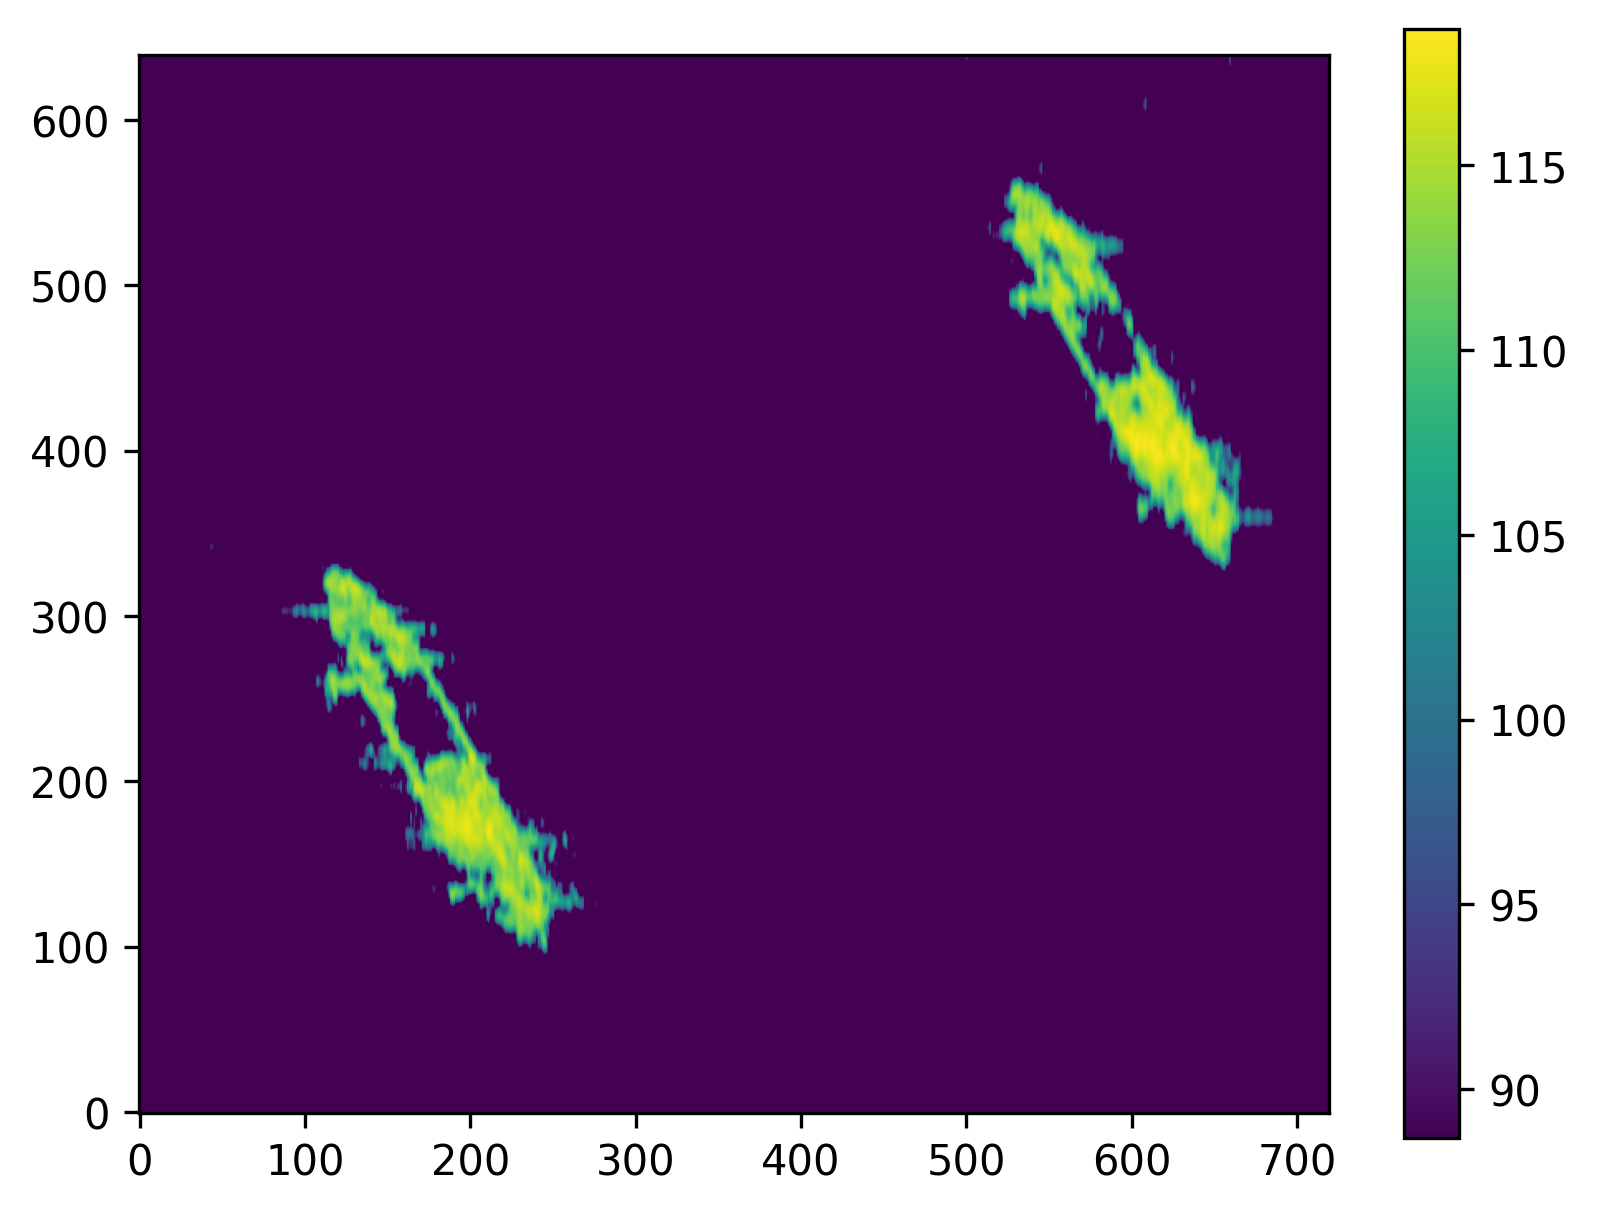
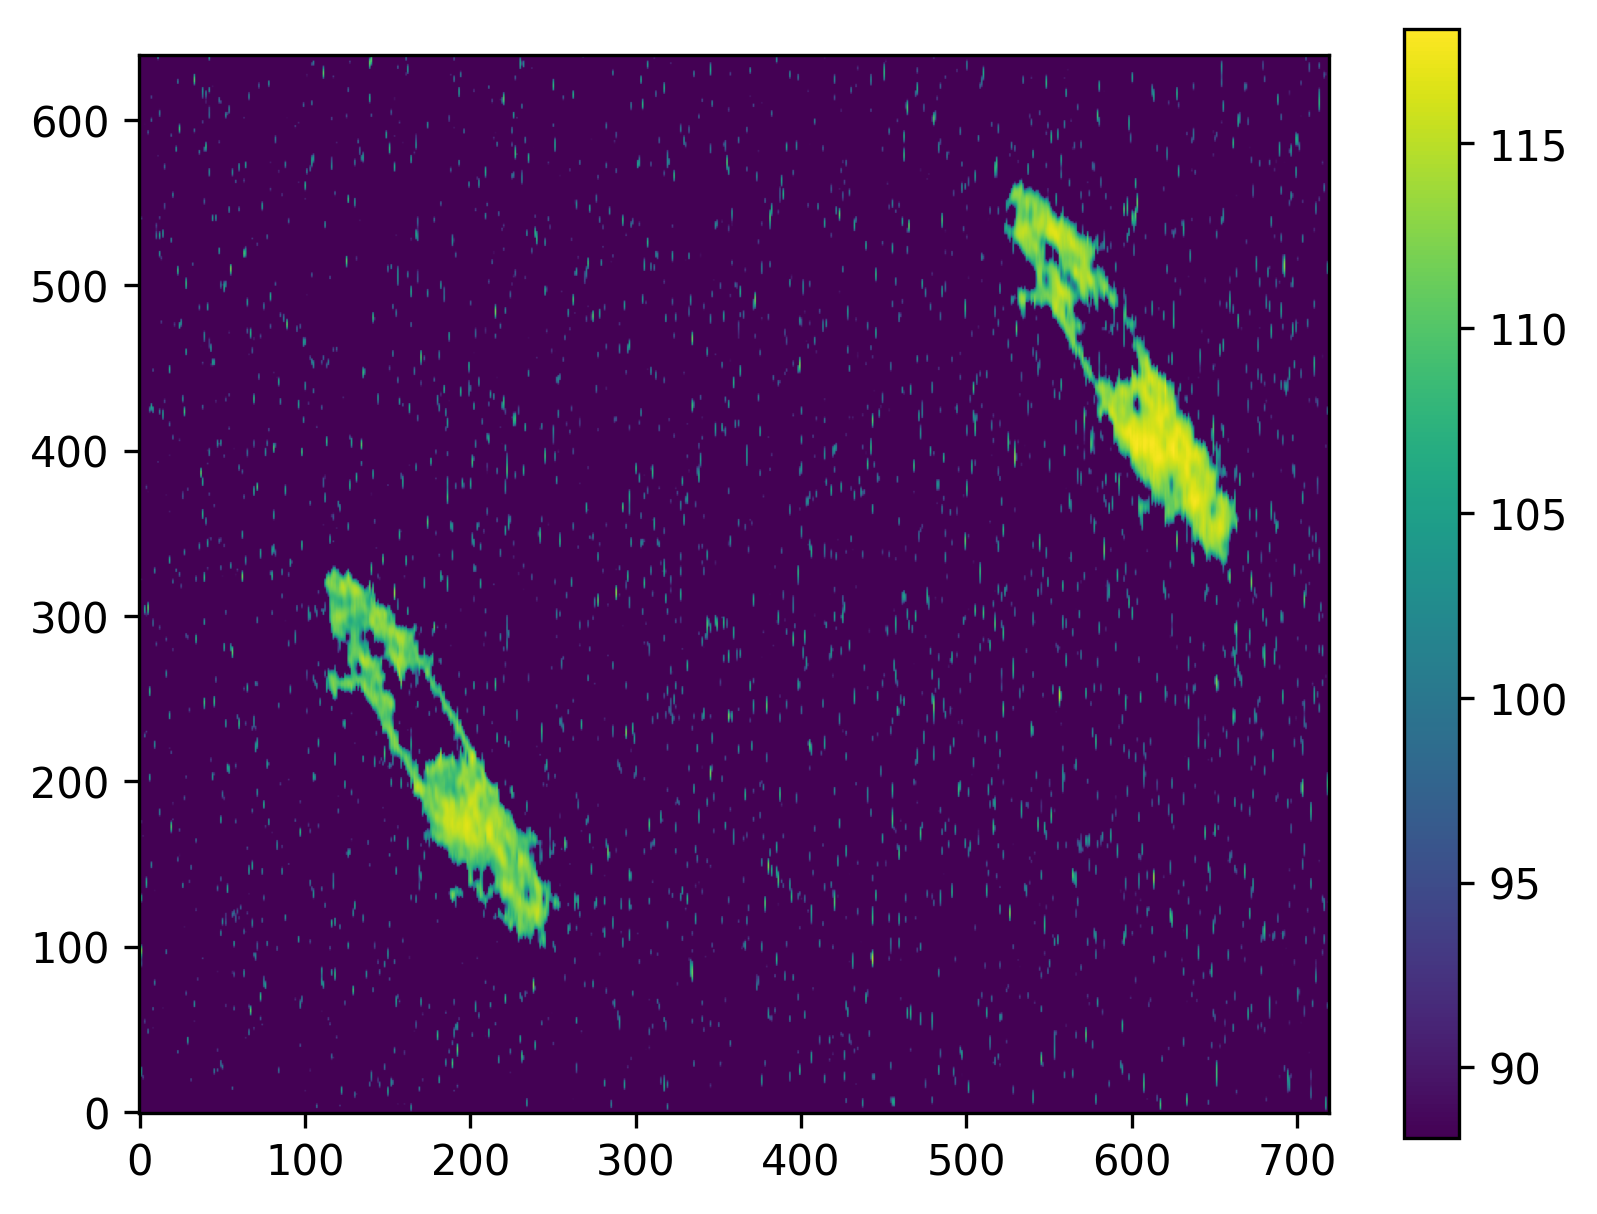
Add result that both image and SSIM are significantly improved

diff --git a/TestMultiPointTarget/TestImageGen.py b/TestMultiPointTarget/TestImageGen.py
@@ -15,6 +15,15 @@ def plot_single_point_target():
     plt.colorbar()
     plt.savefig("single_point_target.png", dpi=300, bbox_inches="tight")
 
+def save_result(sliced_data, file_path):
+    # max_val = np.percentile(data, 99.8)
+    max_val = np.max(sliced_data)
+    clipped_data = np.clip(sliced_data, max_val-30, max_val)
+    plt.imshow(clipped_data, origin='lower', cmap='viridis', aspect=1.0)
+    plt.colorbar()
+    plt.savefig(file_path, dpi=300, bbox_inches="tight")
+    plt.clf()
+
 if __name__ == "__main__": 
     # scene = Scene.Coast
     # scene = Scene.Island
@@ -36,24 +45,26 @@ if __name__ == "__main__":
         data = np.load(f"./focused_image/{image_name}_mag_db.npy")[int(n_row*3/2):int(n_row*5/2), int(n_col*3/2):int(n_col*5/2)]
     print(data.shape)
     # plt.imshow(data, origin='lower', cmap='viridis', aspect=2.0)
-    # max_val = np.percentile(data, 99.8)
-    max_val = np.max(data)
-    clipped_data = np.clip(data, max_val-30, max_val)
-    plt.imshow(clipped_data, origin='lower', cmap='viridis', aspect=1.0)
-    plt.colorbar()
-    plt.savefig(f"{image_name}_csa.png", dpi=300, bbox_inches="tight")
-    plt.clf()
+    save_result(
+        sliced_data=data,
+        file_path="../diagram/perf_metric/tsoying_naval_base/result_csa.png",
+    )
 
-    for i in range(1):
-        data = np.load("./focused_image/tsoying_naval_base_iter_{}_mag_db.npy".format(i))[int(n_row*3/2):int(n_row*5/2), int(n_col*3/2):int(n_col*5/2)]
-        aspect = 1.0
-        # plt.imshow(data, origin='lower', cmap='viridis', aspect=2.0)
-        max_val = np.max(data)
-        print(max_val)
-        clipped_data = np.clip(data, max_val-30, max_val)
-        plt.imshow(clipped_data, origin='lower', cmap='viridis', aspect=aspect)
-        plt.colorbar()
-        plt.savefig(f"tsoying_naval_base_iter_{i}.png".format(i), dpi=300, bbox_inches="tight")
-        plt.clf()
+    # for i in range(1):
+    #     data = np.load("./focused_image/tsoying_naval_base_iter_{}_mag_db.npy".format(i))[int(n_row*3/2):int(n_row*5/2), int(n_col*3/2):int(n_col*5/2)]
+    #     aspect = 1.0
+    #     # plt.imshow(data, origin='lower', cmap='viridis', aspect=2.0)
+    #     max_val = np.max(data)
+    #     print(max_val)
+    #     clipped_data = np.clip(data, max_val-30, max_val)
+    #     plt.imshow(clipped_data, origin='lower', cmap='viridis', aspect=aspect)
+    #     plt.colorbar()
+    #     plt.savefig(f"tsoying_naval_base_iter_{i}.png".format(i), dpi=300, bbox_inches="tight")
+    #     plt.clf()
+    data = np.load("./focused_image/tsoying_naval_base_iter_0_mag_db.npy")[int(n_row*3/2):int(n_row*5/2), int(n_col*3/2):int(n_col*5/2)]
+    save_result(
+        sliced_data=data,
+        file_path="../diagram/perf_metric/tsoying_naval_base/result_threshold.png",
+    )
     
     print("DONE")

diff --git a/document/simulation_report/performance_metrics_table.tex b/document/simulation_report/performance_metrics_table.tex
@@ -5,12 +5,12 @@
         \toprule
         Metric & result (threshold = 0) & result (threshold = 1e4) \\
         \midrule
-        SSIM & 0.09735 & 0.09737 \\
-        Luminance $L$ & 0.29189 & 0.29023 \\
-        Contrast $C$ & 0.13559 & 0.13411 \\
-        Structure $S$ & 0.94457 & 0.95153 \\
-        PSNR (dB) & 14.44 & 14.43 \\
-        MSE $[0,1]$ & 0.03600 & 0.03605 \\
+        SSIM & 0.02064 & 0.66418 \\
+        Luminance $L$ & 0.04553 & 0.79501 \\
+        Contrast $C$ & 0.14021 & 0.72412 \\
+        Structure $S$ & 0.95948 & 0.96593 \\
+        PSNR (dB) & 5.17 & 20.61 \\
+        MSE $[0,1]$ & 0.30379 & 0.00870 \\
         \bottomrule
     \end{tabular}
 \end{table}

diff --git a/TestMultiPointTarget/TestMultiPointTarget.py b/TestMultiPointTarget/TestMultiPointTarget.py
@@ -216,14 +216,14 @@ if __name__ == "__main__":
     # gen_input_par(scene=Scene.Island)
     gen_input_par(scene=Scene.TsoYingNavalBase)
     # start_time = time.perf_counter()
-    # run_cpp(args=["gen", "multi_point_target"])
+    # run_gen_echo_signal("tsoying_naval_base")
     # end_time = time.perf_counter()
     # execution_time = end_time - start_time
     # print(f"Execution time: {execution_time/60:.6f} minutes")
     
-    run_cpp(args=["focus", "tsoying_naval_base"])
-    run_cpp(args=["calc_mag", "./focused_image/tsoying_naval_base"])
-    run_cpp(args=["calc_entropy", "./focused_image/tsoying_naval_base"])
+    # run_cpp(args=["focus", "tsoying_naval_base"])
+    # run_cpp(args=["calc_mag", "./focused_image/tsoying_naval_base"])
+    # run_cpp(args=["calc_entropy", "./focused_image/tsoying_naval_base"])
     
     # save_3d_plot_of_focused_image("focused_image", "multi_point_target_image_mag_db")
     # save_3d_plot("focused_image", "multi_point_target_image_mag_db")
@@ -250,5 +250,4 @@ if __name__ == "__main__":
     # run_cpp(args=["calc_entropy", "./focused_image/multi_point_target_image"])
     # run_cpp(args=["calc_entropy", "./iter_result_multi_point_image/csa_out_iter_0"])
 
-    # run_gen_echo_signal("tsoying_naval_base")
     # run_gen_echo_signal(target="single_point_target", azimuth_offset_m=0.04, range_offset_m=30.0)

diff --git a/UmbraDataProc/generate_point_target.py b/UmbraDataProc/generate_point_target.py
@@ -337,9 +337,13 @@ def process_scene(
 
     save_scene(scene_name + "_no_speckle", data)
 
+    bg_mask = None
     if xp.num_looks is not None:
         reflectivity = data.astype(np.float32)
         bg_mask = reflectivity == 0
+        plot_histogram(
+            scene_name, reflectivity[~bg_mask] if bg_mask is not None else reflectivity
+        )
         if xp.speckle_bg is not None:
             reflectivity = reflectivity + xp.speckle_bg
         # Multiplicative L-look speckle: u ~ Gamma(L, 1/L), mean=1, var=1/L
@@ -354,7 +358,6 @@ def process_scene(
 
     save_scene(scene_name, data)
     count_zeros(data)
-    plot_histogram(scene_name, data)
     plot_scene(scene_name, data=np.clip(data, 0.0, 255.0) if xp.clip_plot else None)
 
 
@@ -388,7 +391,7 @@ if __name__ == "__main__":
             method="binary", threshold=110, morph_close=True, preserve_gray=True
         ),
         speckle_params=SpeckleParams(
-            zero_threshold=140, num_looks=1, speckle_bg=100, clip_plot=True
+            zero_threshold=120, num_looks=1, speckle_bg=120, clip_plot=True
         ),
         null_regions=[(0, 500, 0, 290)],
     )

diff --git a/src/TestMultiPointTarget.cpp b/src/TestMultiPointTarget.cpp
@@ -217,7 +217,7 @@ int main(int argc, char *argv[])
         {
             diff_csa_out = chirp_scaling_algo.apply_csa(echo_signal - chirp_scaling_algo.apply_inverse_csa(csa_out));
             csa_out = csa_out + diff_csa_out;
-            csa_out = thresholding(csa_out, 1e4);
+            csa_out = thresholding(csa_out, 5e5);
             // csa_out = thresholding(csa_out, 5e2);
             // save_mat_to_npy("./iter_result_multi_point_rng_dpl_anal/csa_out_iter_" + std::to_string(iter_idx) + ".npy", csa_out, n_row, n_col);
             save_mat_to_npy("./focused_image/tsoying_naval_base_iter_" + std::to_string(iter_idx) + ".npy", csa_out, n_row, n_col);